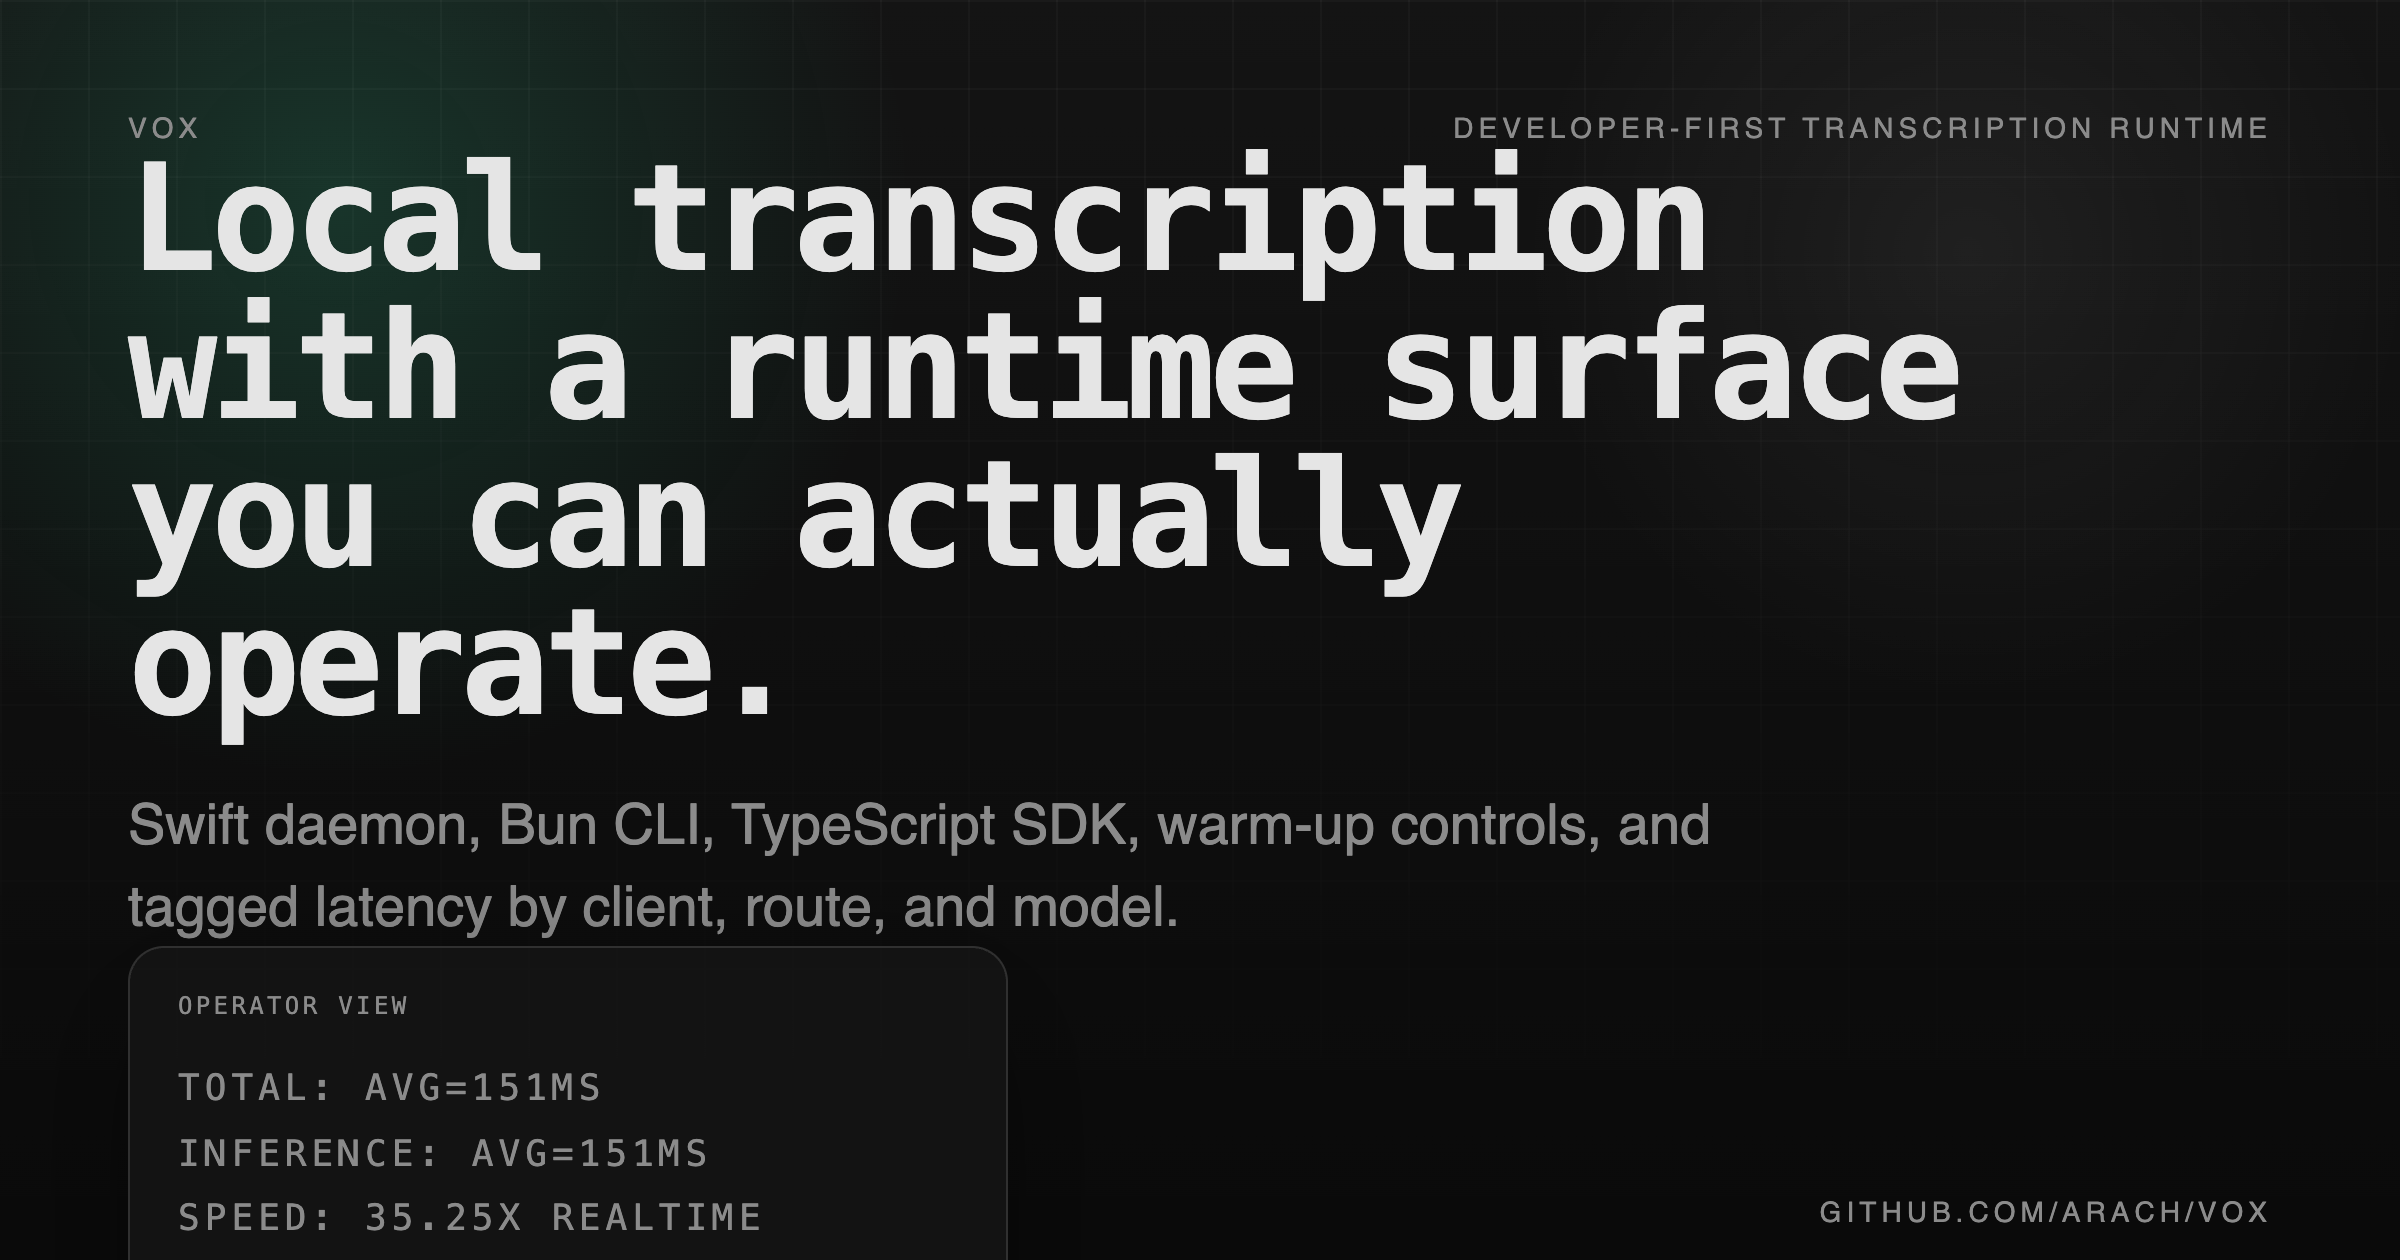
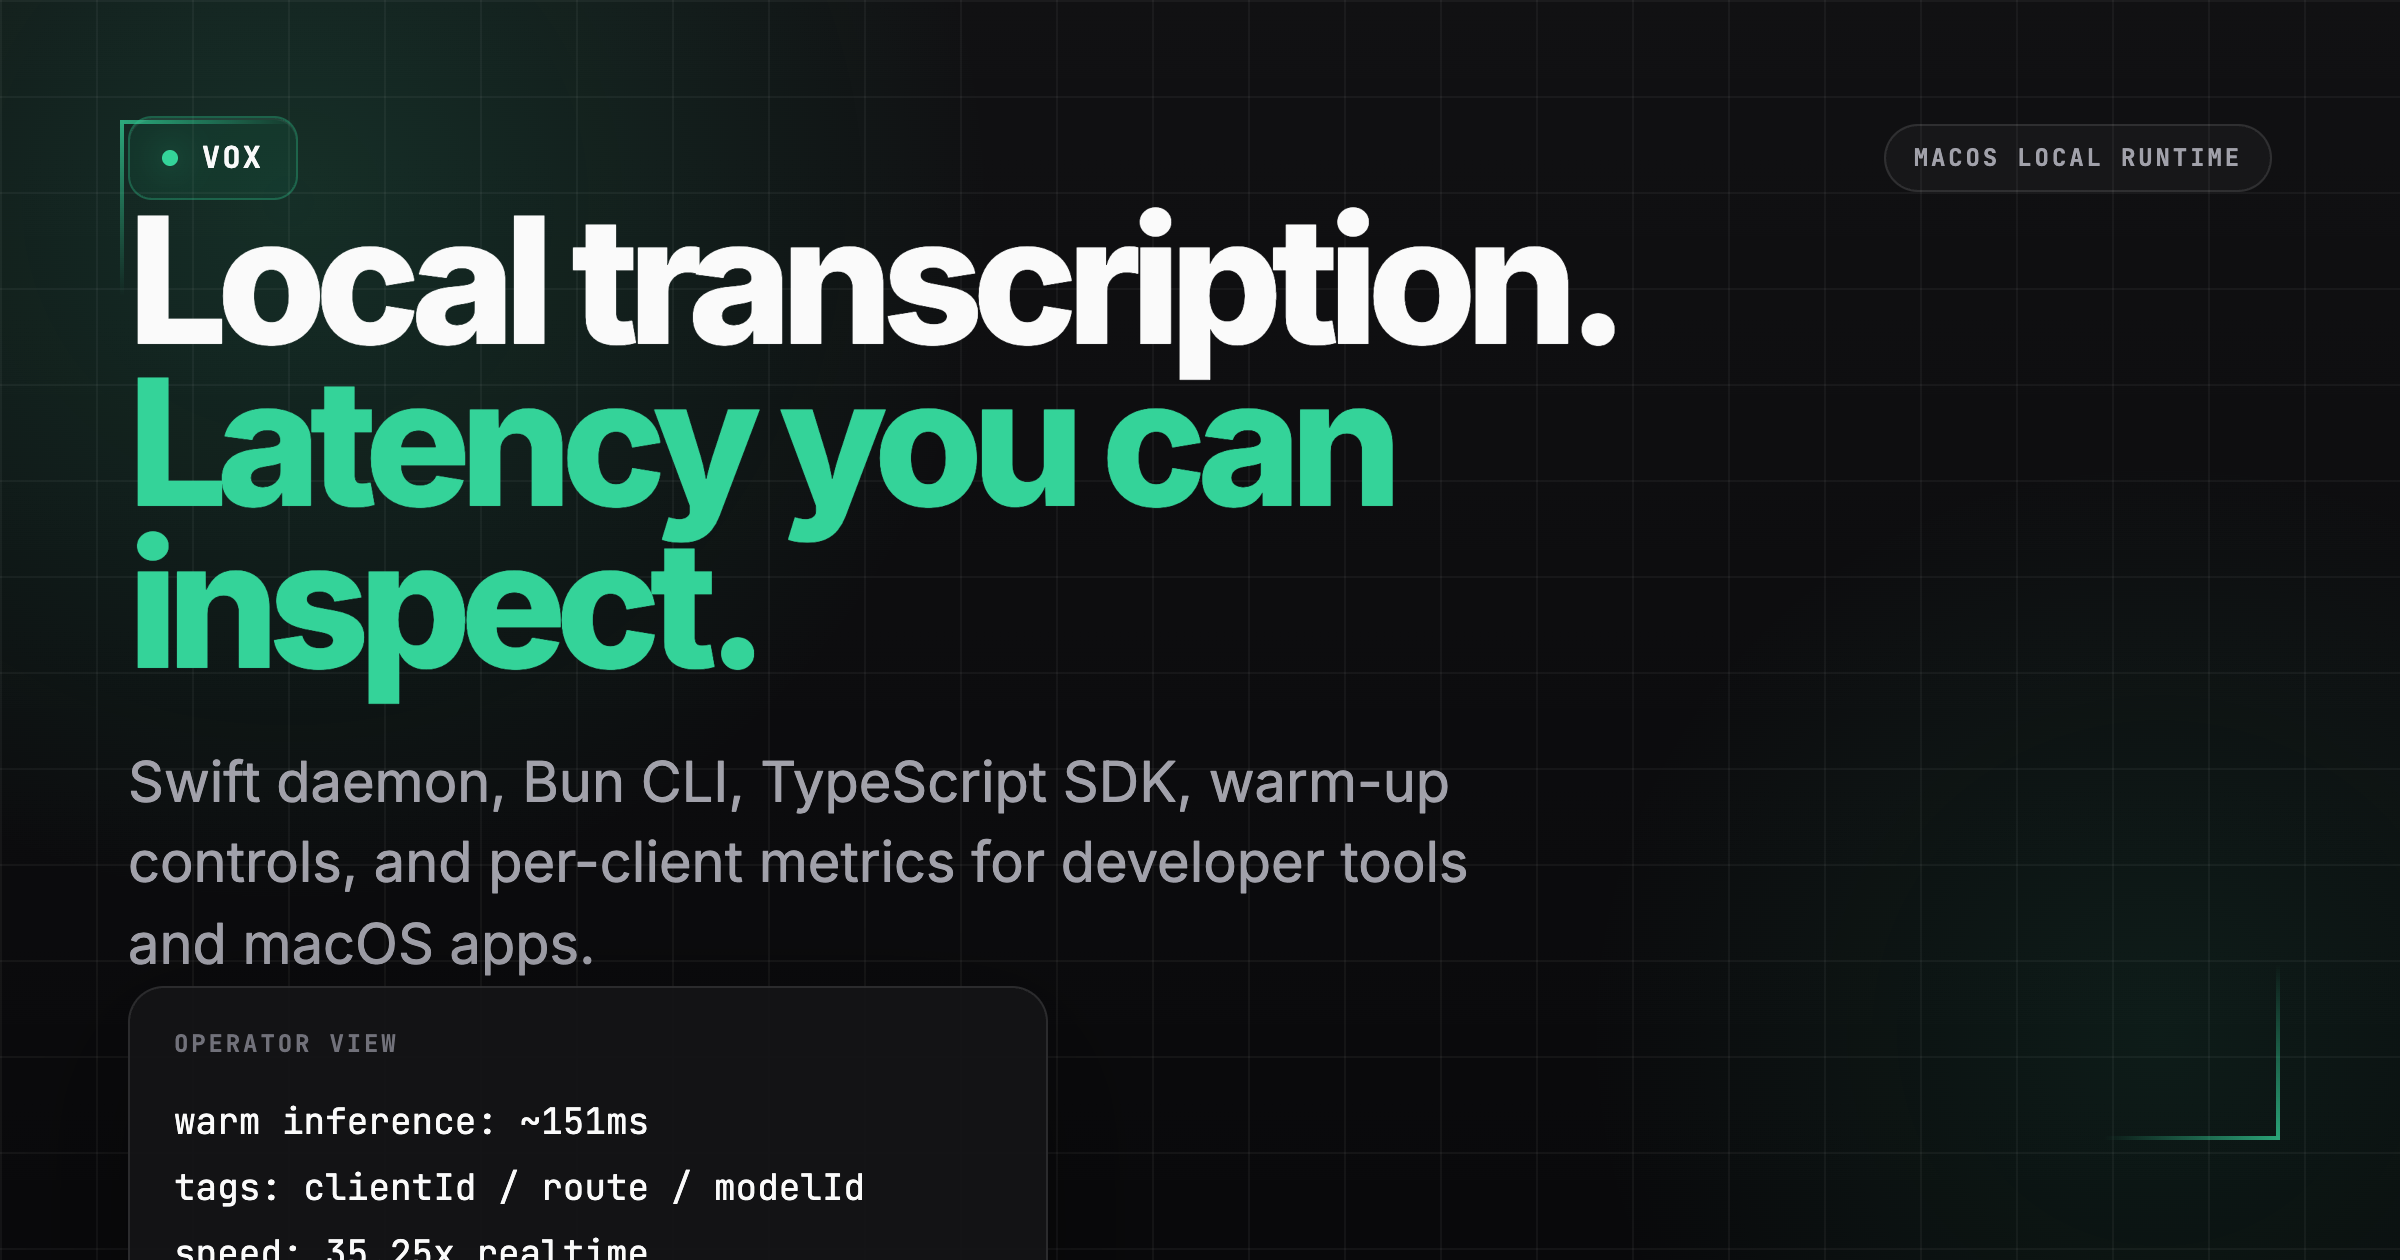
🖼 Refine OG card and add /gh redirect

diff --git a/site/og-template.html b/site/og-template.html
@@ -2,15 +2,20 @@
 <html lang="en">
   <head>
     <meta charset="UTF-8" />
+    <link rel="preconnect" href="https://fonts.googleapis.com" />
+    <link rel="preconnect" href="https://fonts.gstatic.com" crossorigin />
+    <link href="https://fonts.googleapis.com/css2?family=Inter:wght@400;500;600;700;800&family=JetBrains+Mono:wght@400;500;700&display=swap" rel="stylesheet" />
     <style>
       :root {
-        --bg: #0a0a0a;
-        --panel: #141414;
-        --ink: #e5e5e5;
-        --muted: #8b8b8b;
+        --bg: #09090b;
+        --panel: rgba(20, 20, 22, 0.92);
+        --ink: #fafafa;
+        --muted: #a1a1aa;
+        --soft: #71717a;
         --accent: #34d399;
-        --accent-bright: #6ee7b7;
-        --line: rgba(255, 255, 255, 0.12);
+        --accent-strong: #10b981;
+        --line: rgba(255, 255, 255, 0.1);
+        --grid: rgba(255, 255, 255, 0.045);
       }
 
       * {
@@ -21,121 +26,263 @@
         margin: 0;
         width: 1200px;
         height: 630px;
-        background:
-          radial-gradient(circle at 14% 16%, rgba(52, 211, 153, 0.18), transparent 18rem),
-          radial-gradient(circle at 82% 20%, rgba(255, 255, 255, 0.06), transparent 14rem),
-          linear-gradient(180deg, rgba(255, 255, 255, 0.04), rgba(255, 255, 255, 0)),
-          var(--bg);
-        color: var(--ink);
-        font-family: "Geist", sans-serif;
         position: relative;
         overflow: hidden;
+        background:
+          radial-gradient(circle at 12% 16%, rgba(52, 211, 153, 0.16), transparent 22rem),
+          radial-gradient(circle at 90% 82%, rgba(52, 211, 153, 0.09), transparent 18rem),
+          linear-gradient(180deg, rgba(255, 255, 255, 0.03), rgba(255, 255, 255, 0)),
+          var(--bg);
+        color: var(--ink);
+        font-family: "Inter", sans-serif;
       }
 
       .grid {
         position: absolute;
         inset: 0;
         background-image:
-          linear-gradient(to right, rgba(255, 255, 255, 0.05) 1px, transparent 1px),
-          linear-gradient(to bottom, rgba(255, 255, 255, 0.05) 1px, transparent 1px);
-        background-size: 44px 44px;
-        mask-image: linear-gradient(to bottom, rgba(0, 0, 0, 0.55), transparent 90%);
+          linear-gradient(to right, var(--grid) 1px, transparent 1px),
+          linear-gradient(to bottom, var(--grid) 1px, transparent 1px);
+        background-size: 48px 48px;
+      }
+
+      .corner {
+        position: absolute;
+        width: 88px;
+        height: 88px;
+        opacity: 0.75;
+      }
+
+      .corner::before,
+      .corner::after {
+        content: "";
+        position: absolute;
+        background: linear-gradient(90deg, var(--accent), transparent);
+      }
+
+      .corner::before {
+        width: 88px;
+        height: 2px;
+      }
+
+      .corner::after {
+        width: 2px;
+        height: 88px;
+        background: linear-gradient(180deg, var(--accent), transparent);
+      }
+
+      .corner.tl {
+        top: 60px;
+        left: 60px;
+      }
+
+      .corner.br {
+        right: 60px;
+        bottom: 60px;
+        transform: rotate(180deg);
       }
 
       .wrap {
         position: relative;
         height: 100%;
-        padding: 56px 64px;
+        padding: 58px 64px 54px;
         display: flex;
         flex-direction: column;
+      }
+
+      .top {
+        display: flex;
+        align-items: center;
         justify-content: space-between;
       }
 
-      .topline,
-      .footer {
-        display: flex;
-        justify-content: space-between;
+      .brand {
+        display: inline-flex;
         align-items: center;
+        gap: 12px;
+        padding: 10px 16px;
+        border: 1px solid rgba(52, 211, 153, 0.28);
+        border-radius: 12px;
+        background: rgba(16, 185, 129, 0.08);
+        box-shadow: inset 0 1px 0 rgba(255, 255, 255, 0.06);
+      }
+
+      .brand-dot {
+        width: 8px;
+        height: 8px;
+        border-radius: 999px;
+        background: var(--accent);
+        box-shadow: 0 0 18px rgba(52, 211, 153, 0.65);
+      }
+
+      .brand-text {
+        font-family: "JetBrains Mono", monospace;
+        font-size: 15px;
+        font-weight: 700;
+        letter-spacing: 0.08em;
         text-transform: uppercase;
-        letter-spacing: 0.18em;
-        font-size: 14px;
+      }
+
+      .tag {
+        padding: 8px 14px;
+        border: 1px solid var(--line);
+        border-radius: 999px;
+        background: rgba(255, 255, 255, 0.03);
         color: var(--muted);
+        font-family: "JetBrains Mono", monospace;
+        font-size: 12px;
+        font-weight: 600;
+        letter-spacing: 0.12em;
+        text-transform: uppercase;
+      }
+
+      .hero {
+        display: flex;
+        flex: 1;
+        align-items: center;
+      }
+
+      .hero-copy {
+        max-width: 760px;
       }
 
       h1 {
         margin: 0;
-        max-width: 920px;
-        font-family: "Geist Mono", monospace;
-        font-size: 74px;
-        line-height: 1;
-        letter-spacing: -0.04em;
+        font-size: 88px;
+        line-height: 0.92;
+        letter-spacing: -0.06em;
+        font-weight: 800;
+      }
+
+      h1 .accent {
+        color: var(--accent);
       }
 
       .sub {
-        margin-top: 24px;
-        max-width: 820px;
+        margin-top: 28px;
+        max-width: 720px;
         font-size: 28px;
         line-height: 1.45;
         color: var(--muted);
       }
 
+      .bottom {
+        display: flex;
+        align-items: flex-end;
+        justify-content: space-between;
+        gap: 28px;
+      }
+
       .panel {
-        width: 440px;
+        width: 460px;
+        padding: 20px 22px;
         border: 1px solid var(--line);
         border-radius: 18px;
-        background: rgba(20, 20, 20, 0.96);
-        padding: 22px 24px;
+        background: var(--panel);
         box-shadow: 0 24px 70px rgba(0, 0, 0, 0.35);
       }
 
-      .label {
-        font-family: "Geist Mono", monospace;
+      .panel-label {
+        color: var(--soft);
+        font-family: "JetBrains Mono", monospace;
         font-size: 12px;
+        font-weight: 600;
+        letter-spacing: 0.12em;
         text-transform: uppercase;
-        letter-spacing: 0.14em;
-        color: var(--muted);
       }
 
-      .stat {
-        margin-top: 18px;
-        font-family: "Geist Mono", monospace;
+      .panel-stat {
+        margin-top: 14px;
+        font-family: "JetBrains Mono", monospace;
         font-size: 18px;
-        line-height: 1.8;
+        line-height: 1.85;
+        color: var(--ink);
       }
 
-      .wave {
-        height: 72px;
+      .panel-accent {
+        height: 4px;
         margin-top: 18px;
-        border-radius: 14px;
-        background:
-          radial-gradient(circle at 14% 50%, rgba(52, 211, 153, 0.24), transparent 16%),
-          linear-gradient(90deg, transparent, rgba(255, 255, 255, 0.16) 12%, transparent 23%, rgba(255, 255, 255, 0.16) 36%, transparent 48%, rgba(255, 255, 255, 0.16) 61%, transparent 73%, rgba(255, 255, 255, 0.16) 85%, transparent),
-          linear-gradient(180deg, transparent 44%, rgba(52, 211, 153, 0.85) 48%, rgba(255, 255, 255, 0.12) 49%, transparent 52%);
+        border-radius: 999px;
+        background: linear-gradient(90deg, transparent, var(--accent) 30%, var(--accent-strong) 70%, transparent);
+        opacity: 0.9;
+      }
+
+      .links {
+        display: flex;
+        flex-direction: column;
+        align-items: flex-end;
+        gap: 10px;
+        text-align: right;
+      }
+
+      .site {
+        font-family: "JetBrains Mono", monospace;
+        font-size: 24px;
+        font-weight: 600;
+        letter-spacing: -0.02em;
+        color: var(--ink);
+      }
+
+      .meta {
+        font-family: "JetBrains Mono", monospace;
+        font-size: 14px;
+        color: var(--soft);
+      }
+
+      .meta .sep {
+        margin: 0 10px;
+        color: rgba(255, 255, 255, 0.18);
       }
     </style>
   </head>
   <body>
     <div class="grid"></div>
+    <div class="corner tl"></div>
+    <div class="corner br"></div>
+
     <div class="wrap">
-      <div class="topline">
-        <span>Vox</span>
-        <span>Developer-first transcription runtime</span>
+      <div class="top">
+        <div class="brand">
+          <div class="brand-dot"></div>
+          <div class="brand-text">Vox</div>
+        </div>
+        <div class="tag">macOS local runtime</div>
       </div>
-      <div>
-        <h1>Local transcription with a runtime surface you can actually operate.</h1>
-        <div class="sub">Swift daemon, Bun CLI, TypeScript SDK, warm-up controls, and tagged latency by client, route, and model.</div>
+
+      <div class="hero">
+        <div class="hero-copy">
+          <h1>
+            Local transcription.
+            <br />
+            <span class="accent">Latency you can inspect.</span>
+          </h1>
+          <div class="sub">
+            Swift daemon, Bun CLI, TypeScript SDK, warm-up controls, and per-client metrics for developer tools and macOS apps.
+          </div>
+        </div>
       </div>
-      <div class="footer">
+
+      <div class="bottom">
         <div class="panel">
-          <div class="label">Operator view</div>
-          <div class="stat">
-            total: avg=151ms<br />
-            inference: avg=151ms<br />
+          <div class="panel-label">Operator view</div>
+          <div class="panel-stat">
+            warm inference: ~151ms
+            <br />
+            tags: clientId / route / modelId
+            <br />
             speed: 35.25x realtime
           </div>
-          <div class="wave"></div>
+          <div class="panel-accent"></div>
         </div>
-        <span>github.com/arach/vox</span>
+
+        <div class="links">
+          <div class="site">vox.arach.dev</div>
+          <div class="meta">
+            docs and downloads
+            <span class="sep">/</span>
+            source at <span style="color: var(--muted)">vox.arach.dev/gh</span>
+          </div>
+        </div>
       </div>
     </div>
   </body>

diff --git a/site/public/gh/index.html b/site/public/gh/index.html
@@ -1,0 +1,15 @@
+<!doctype html>
+<html lang="en">
+  <head>
+    <meta charset="utf-8" />
+    <meta http-equiv="refresh" content="0; url=https://github.com/arach/vox" />
+    <link rel="canonical" href="https://github.com/arach/vox" />
+    <title>Redirecting to GitHub</title>
+  </head>
+  <body>
+    <p>Redirecting to <a href="https://github.com/arach/vox">github.com/arach/vox</a>…</p>
+    <script>
+      window.location.replace("https://github.com/arach/vox");
+    </script>
+  </body>
+  </html>
